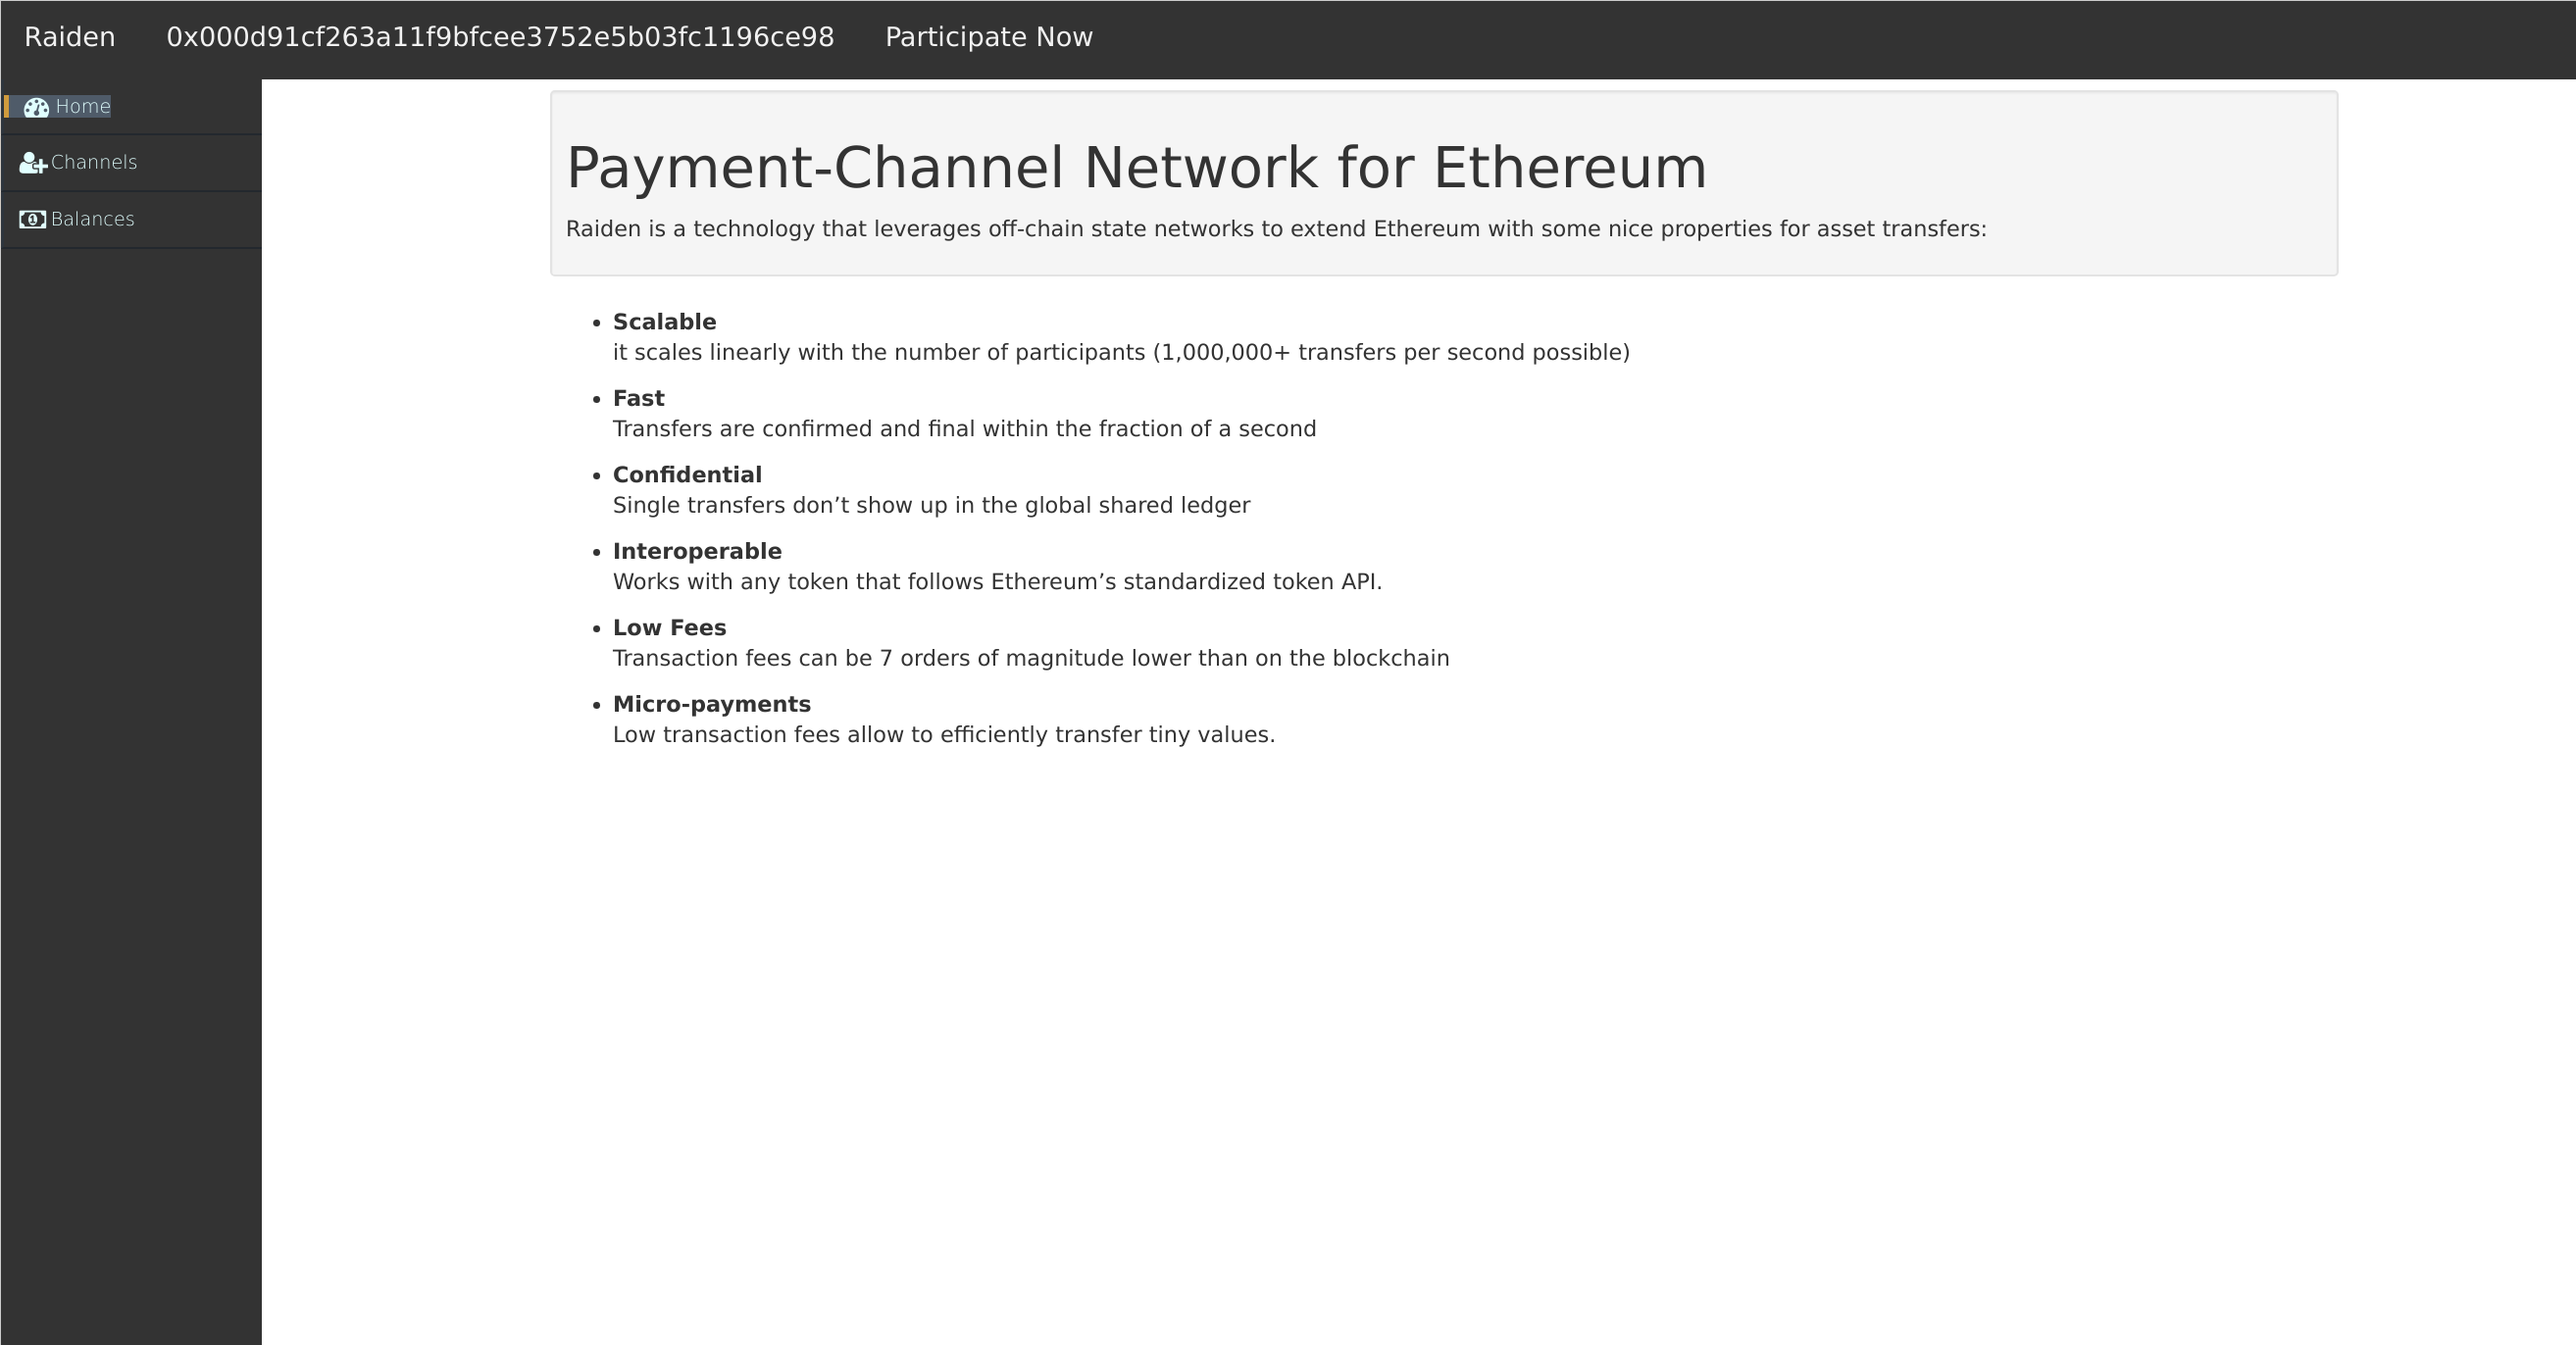
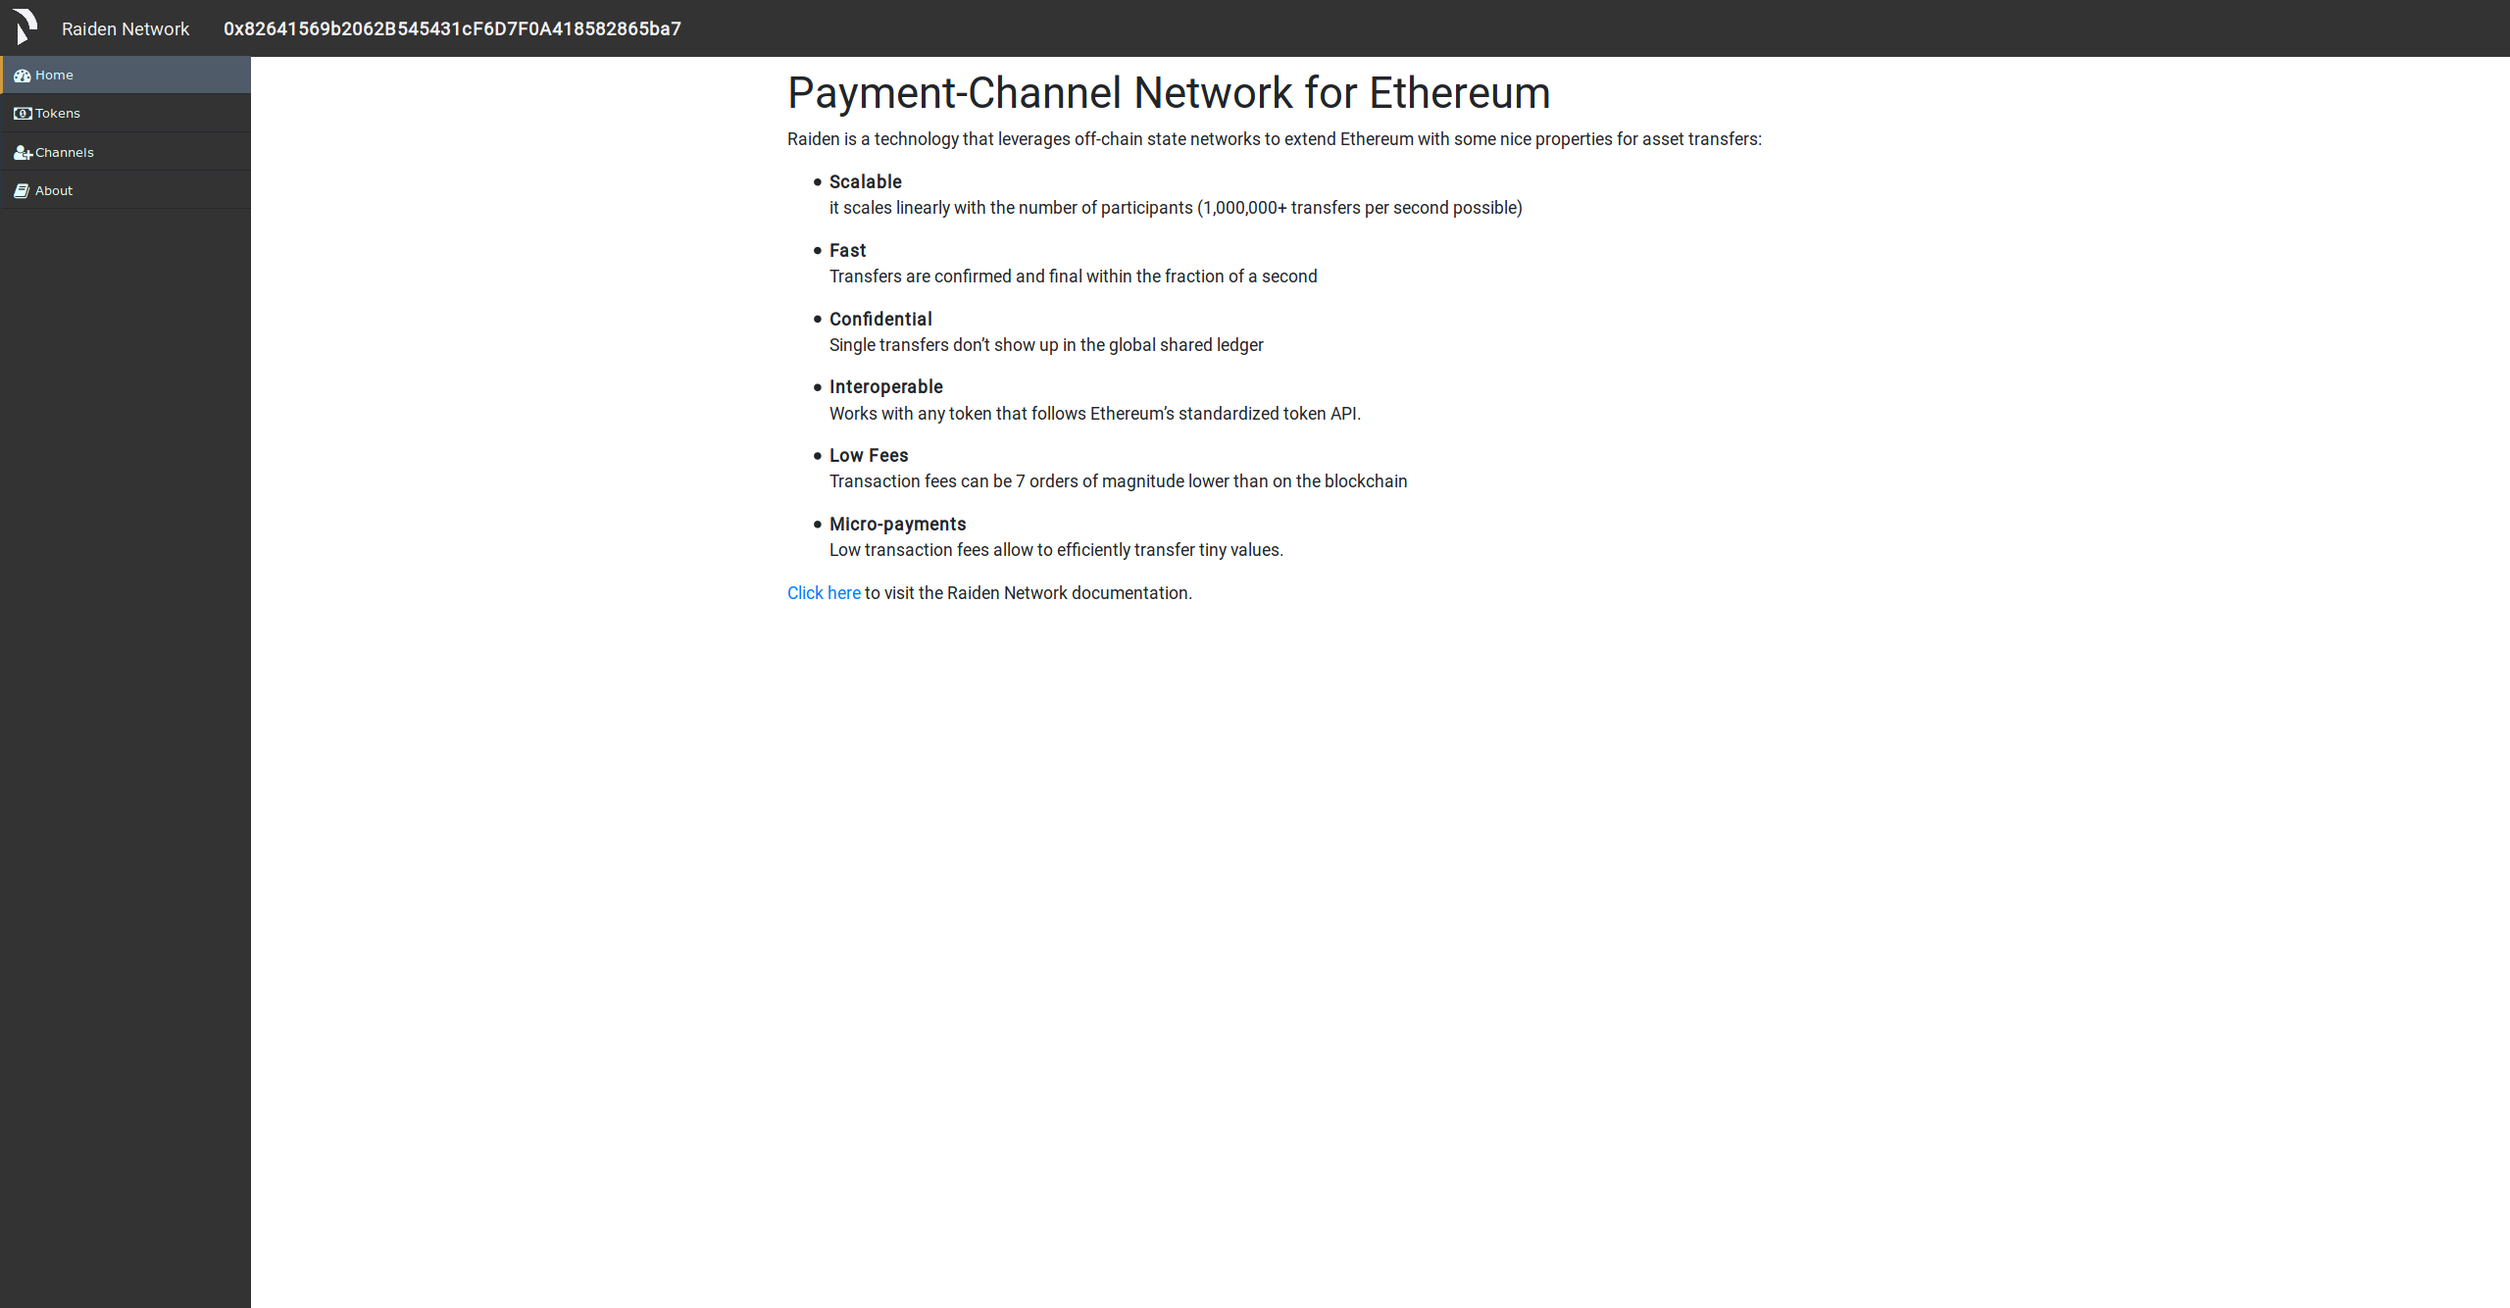
Update the webui documentation
Replace the screenshots with new ones, update the section about the
channel settle action that has been removed from the webui.

Fixes #1487

Changed region(s): [[0.0, 0.0, 1.0, 0.5532], [0.2188, 0.2766, 0.25, 0.3073]]

diff --git a/docs/webui_tutorial.rst b/docs/webui_tutorial.rst
@@ -69,7 +69,7 @@ Channels
 The ``Channels`` page is where a lot of the interesting stuff is going on. If a node has no open channels, not a lot of interesting information is displayed here. Under the ``Network Events`` tab it is however possible to see whenever a new token is registered. With no open channels the most interesting thing that can be done from this view is to manually open a new channel. This is done by pressing the ``Open Channel`` button and filling in the information in the pop up formula.
 
 Once a channel is opened it will show up in the list of open channels. For each channel some relevant data is shown. The ``Channel``, ``Partner`` and ``Token`` fields represent the address of the payment channel itself, the address of the partner and the address of the token that the channel is opened with. Furthermore the ``Balance`` shows the amount of tokens that the Raiden node has available for the specific channel. The ``State`` represents the current state of the channel i.e. if it is opened, closed or settled. ``SettleTimeout`` and ``RevealTimeout`` shows the corresponding values that the channel was opened with. Lastly there is a menu button that represents the interactions that can be made with a channel.
-``Transfer`` sends a transfer to the counterparty of the channel. ``Deposit`` allows the user to deposit more funds in the channel. ``Close`` closes the channel and updated the ``State`` of the channel to ``closed``. Once the channel is closed no more transfers can be carried out and the ``settle_timeout`` is initialised. Furthermore once the ``settle_timeout`` has expired ``Settle`` can be called. This will settle the channel and payout the correct amount of the deposit to each channel participant. It is possible to sort the list of channels by any of the columns or to search for a specific partner or token address etc. using the ``Filter`` field.
+``Transfer`` sends a transfer to the counterparty of the channel. ``Deposit`` allows the user to deposit more funds in the channel. ``Close`` closes the channel and updated the ``State`` of the channel to ``closed``. Once the channel is closed no more transfers can be carried out and the ``settle_timeout`` is initialised. Furthermore once the ``settle_timeout`` has expired the channel will settle and payout the correct amount of the deposit to each channel participant. It is possible to sort the list of channels by any of the columns or to search for a specific partner or token address etc. using the ``Filter`` field.
 
 
 .. thumbnail:: images/raiden_webui_channels_page_screenshot.png
